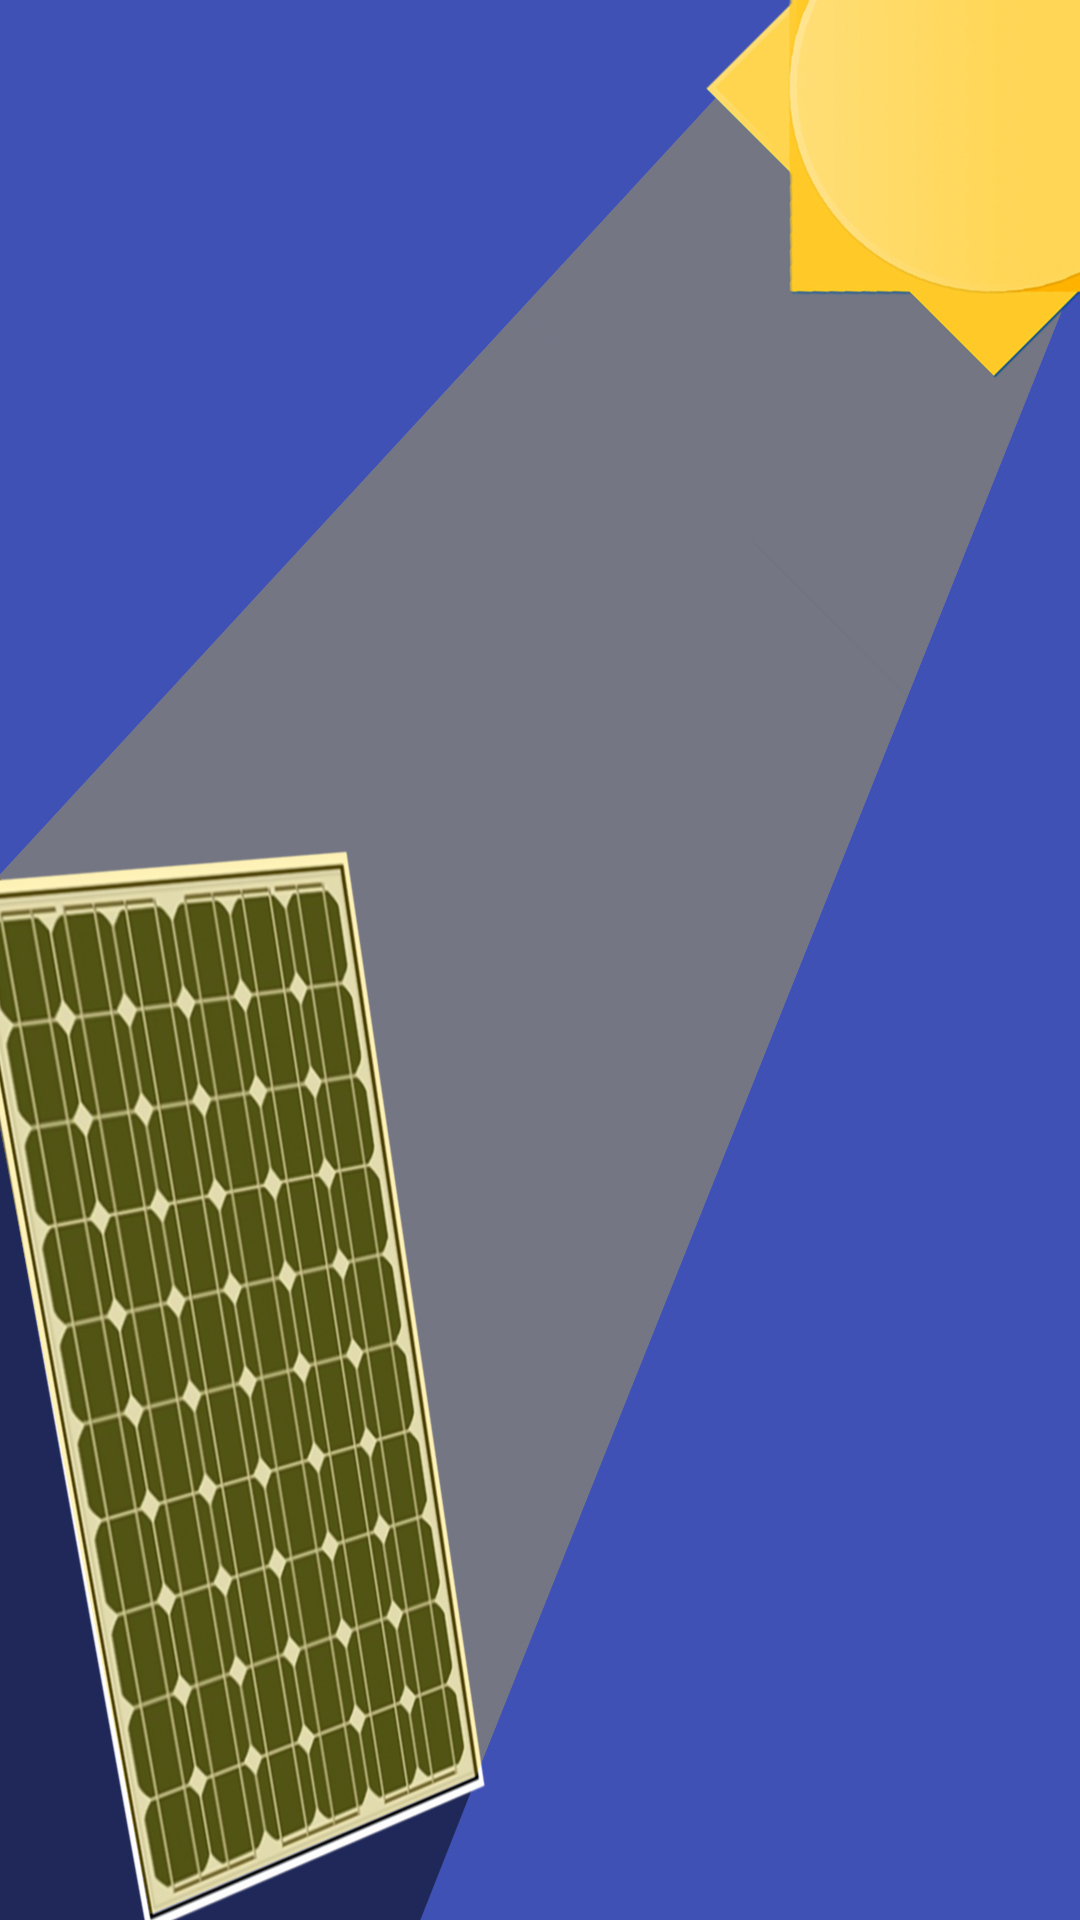
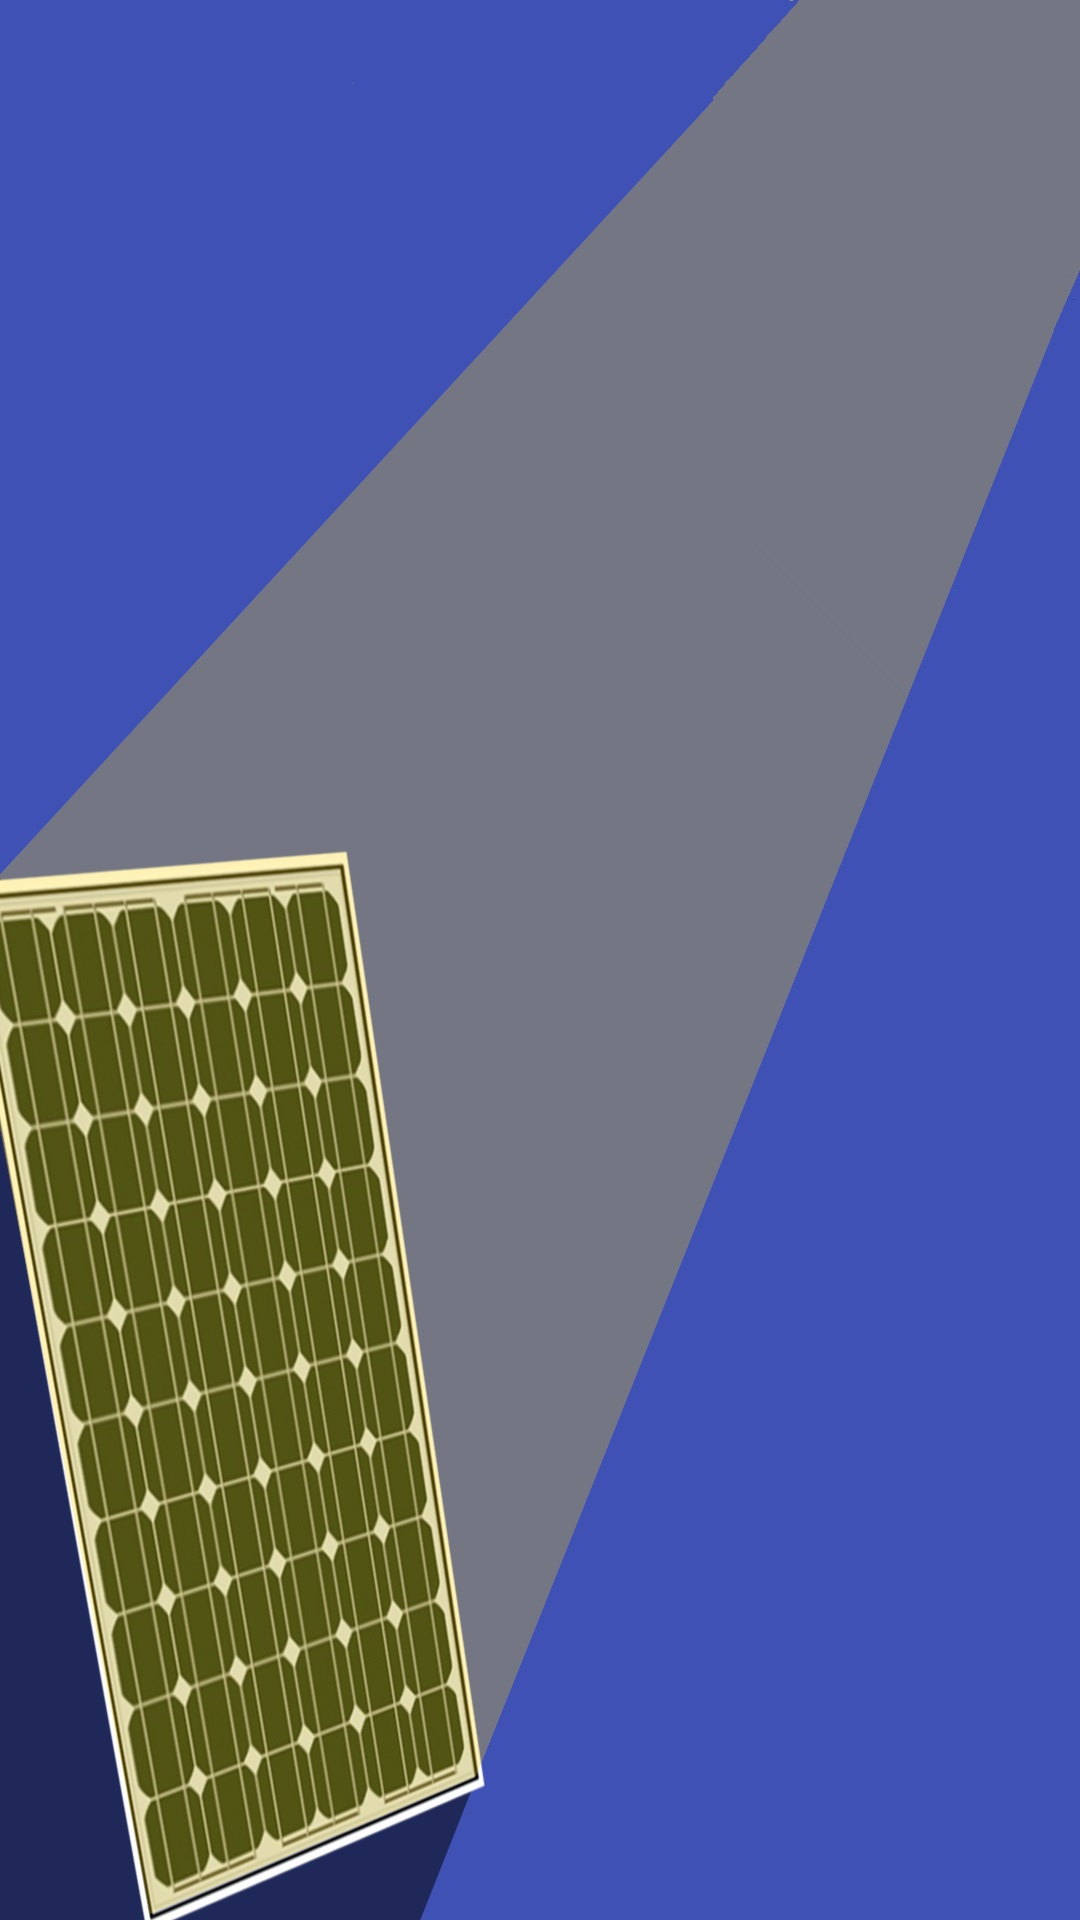
Adding new login background and login animation

Changed region(s): [[0.6417, 0.0, 1.0, 0.2188]]

diff --git a/lib/Loading.dart b/lib/Loading.dart
@@ -3,7 +3,8 @@ import 'dart:math' as math;
 import 'package:flutter/material.dart';
 
 const Curve sunCurve = Curves.linear;
-const maxSize = 1.0;
+const maxSize1 = 0.9;
+const maxSize2 = 0.8;
 
 class CollectorProgressIndicator extends StatefulWidget {
   final Color color0;
@@ -59,28 +60,25 @@ class _CollectorProgressIndicatorState extends State<CollectorProgressIndicator>
 
   double _getMotionAnimation1() {
     if (_controller.value < 0.25)
-      return Tween<double>(begin: 0.0, end: 1.0).evaluate(
+      return Tween<double>(begin: 0.0, end: maxSize1).evaluate(
           CurvedAnimation(parent: _controller, curve: Interval(0.0, 0.25)));
-    else if (_controller.value < 0.66)
-      return Tween<double>(begin: 1.0, end: 0.0).evaluate(
-          CurvedAnimation(parent: _controller, curve: Interval(0.25, 0.66)));
     else
-      return Tween<double>(begin: 0.0, end: 0.1).evaluate(
-          CurvedAnimation(parent: _controller, curve: Interval(0.66, 1.0)));
+      return Tween<double>(begin: maxSize1, end: 0.0).evaluate(
+          CurvedAnimation(parent: _controller, curve: Interval(0.25, 0.66)));
   }
 
   double _getMotionAnimation2() {
     if (_controller.value < 0.25)
-      return Tween<double>(begin: 0.0, end: maxSize).evaluate(
+      return Tween<double>(begin: 0.0, end: maxSize2).evaluate(
           CurvedAnimation(parent: _controller, curve: Interval(0.0, 0.25)));
     else if (_controller.value < 0.5)
-      return Tween<double>(begin: maxSize, end: 0.0).evaluate(
+      return Tween<double>(begin: maxSize2, end: 0.0).evaluate(
           CurvedAnimation(parent: _controller, curve: Interval(0.25, 0.5)));
     else if (_controller.value < 0.75)
-      return Tween<double>(begin: 0.0, end: maxSize).evaluate(
+      return Tween<double>(begin: 0.0, end: maxSize2).evaluate(
           CurvedAnimation(parent: _controller, curve: Interval(0.5, 0.75)));
     else
-      return Tween<double>(begin: maxSize, end: 0.0).evaluate(
+      return Tween<double>(begin: maxSize2, end: 0.0).evaluate(
           CurvedAnimation(parent: _controller, curve: Interval(0.75, 1)));
   }
 

diff --git a/lib/login/Login.dart b/lib/login/Login.dart
@@ -11,37 +11,30 @@ import 'package:hokollektor/util/network.dart';
 import 'package:http/http.dart' as http;
 import 'package:shared_preferences/shared_preferences.dart';
 
-class LoginPage extends StatefulWidget {
-  @override
-  LoginPageState createState() {
-    return new LoginPageState();
-  }
-}
-
-class LoginPageState extends State<LoginPage> {
-  bool showForm = false;
-
+class LoginPage extends StatelessWidget {
   @override
   Widget build(BuildContext context) {
-    final size = MediaQuery.of(context).size.shortestSide / 3.5;
+    final s = MediaQuery.of(context).size;
+    final ratio = s.width / s.height;
+    final size = ratio * 350;
     return Container(
       decoration: BoxDecoration(
           image: DecorationImage(
         image: AssetImage('assets/login.jpg'),
         fit: BoxFit.cover,
       )),
-      child: Center(
-        child: showForm
-            ? LoginForm()
-            : CollectorProgressIndicator(
-                size: size,
-                duration: Duration(seconds: 2, milliseconds: 500),
-                onFinished: () => this.setState(() {
-                      this.showForm = true;
-                      print('finished');
-                    }),
-              ),
-      ),
+      child: Stack(children: [
+        Transform.translate(
+          offset: Offset(size / s.width * 100, -size / s.height * 200),
+          child: Align(
+            alignment: Alignment.topRight,
+            child: CollectorProgressIndicator(
+              size: size,
+            ),
+          ),
+        ),
+        Center(child: LoginForm()),
+      ]),
     );
   }
 }
